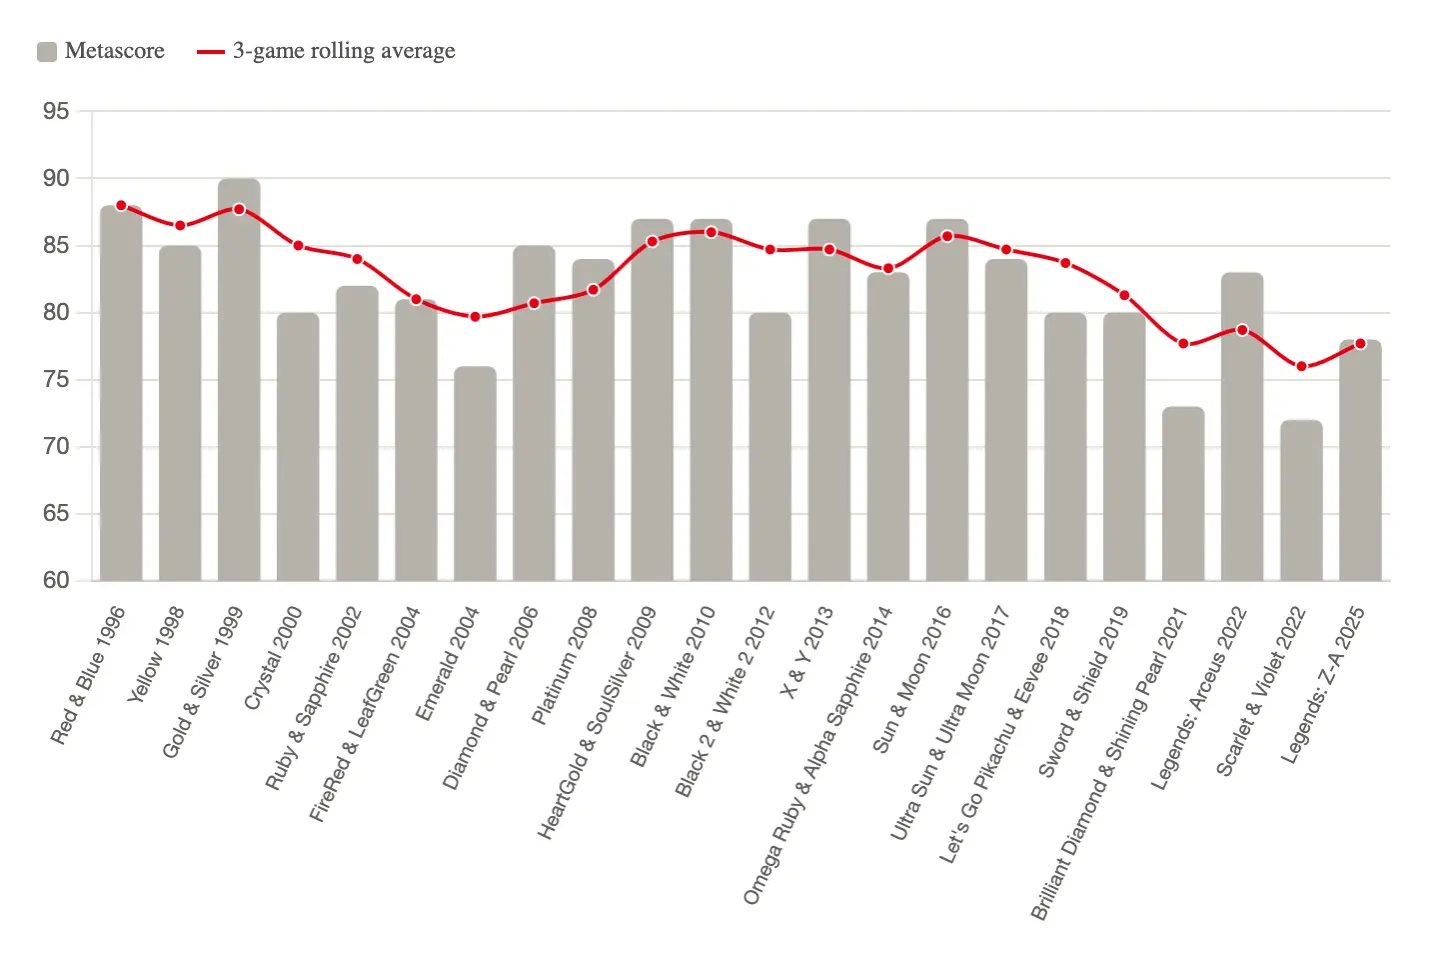
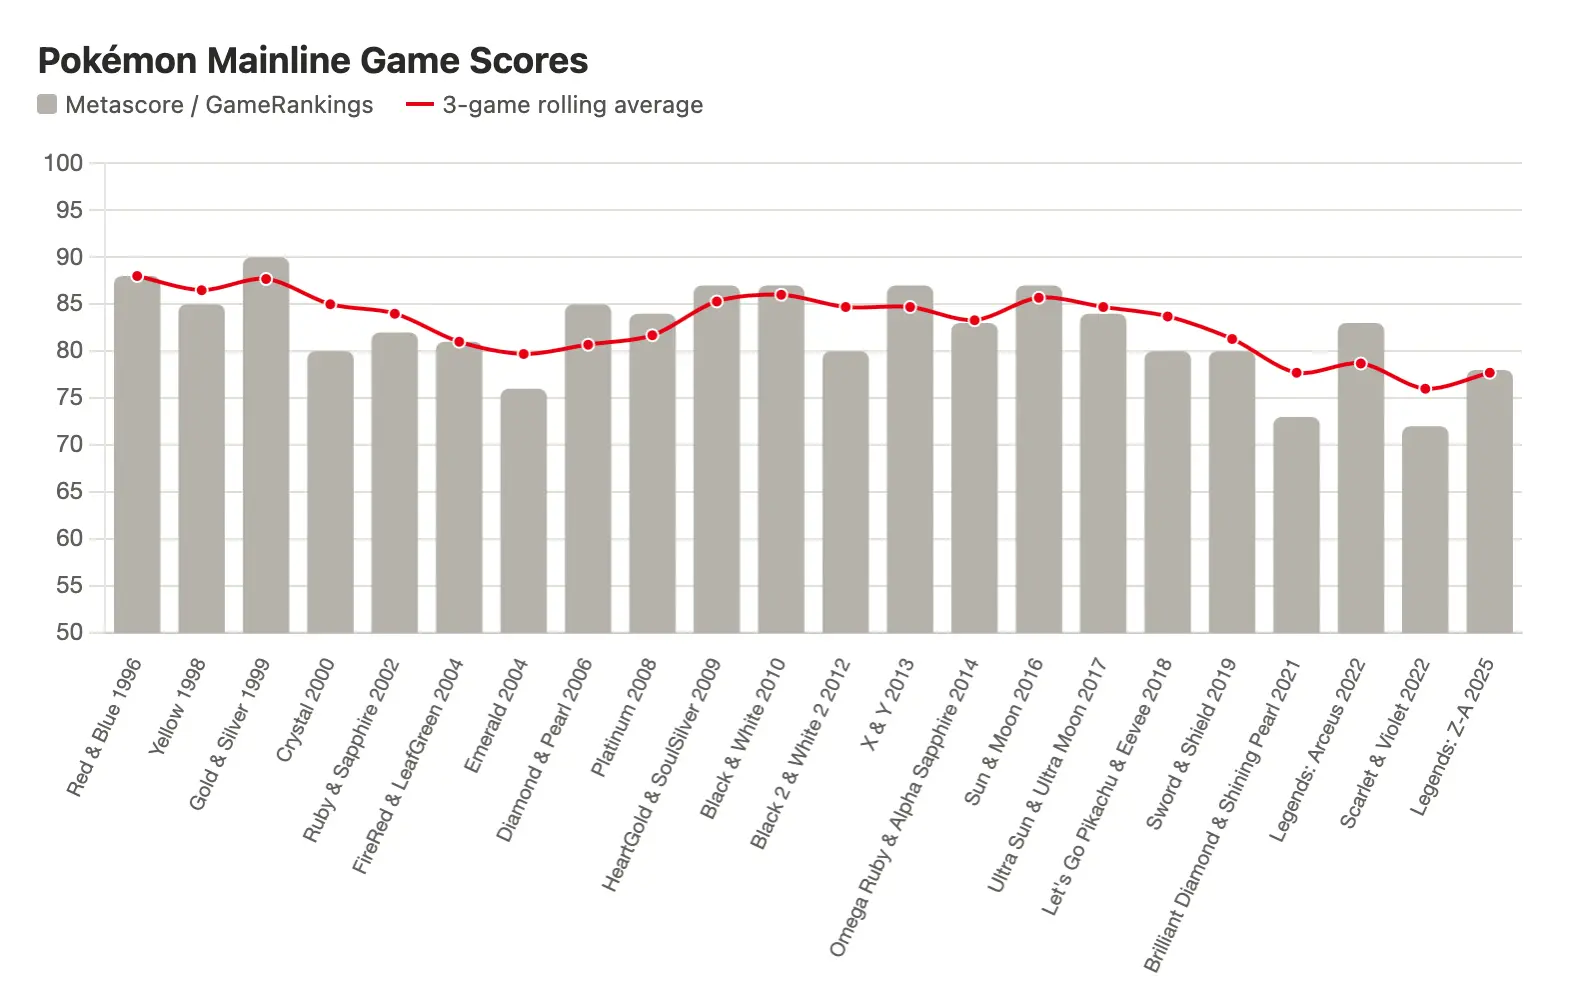
Quartz sync: Jul 23, 2026, 7:57 AM

Changed region(s): [[0.0307, 0.1514, 0.9819, 0.9687], [0.0, 0.0303, 0.4603, 0.1211], [0.4603, 0.3935, 0.4909, 0.4541]]

diff --git a/content/investing/Nintendo.md b/content/investing/Nintendo.md
@@ -302,9 +302,9 @@ By being able to satisfy both audiences - adults and children - success in one g
 
 Many of Nintendo's core IP (Mario, The Legend of Zelda, Donkey Kong, Starfox, etc.) were created by one person, Shigeru Miyamoto. Normally, this would create significant key-man risk as Miyamoto is now in his 70s. However, Nintendo has taken careful steps to practice deliberate succession planning. The best example of this is the continued excellence in metascores that The Legend of Zelda has received, even after directorial control was passed on to Eiji Aonuma years ago[^25].
 
-**Legend of Zelda Games, Metascores:**[^26]
+**Legend of Zelda Game Scores**[^26]
 
-![[LegendofZeldaGames1986-2026Metascores.webp]]
+![[ZeldaGameScoresOverTime.webp]]
 
 #### IP Enforcement
 
@@ -430,9 +430,11 @@ The best comparison I can think of for Playstation is their title "God of War: R
 
 What matter here is that this is not Sony failing to execute. This is the state of normalcy in the gaming industry for all players - except Nintendo. The difference is almost half a decade of sales at full margins, versus running as fast as you can to stay in one place. It is a good of a picture as we can get of the pricing power Nintendo holds and the power of its IP.
 
+---
+
 ## 5. Risks & Opportunities
 
-### Risk 
+### Risks
 
 The risk section ahead will not attempt to predict or discuss short term risks to Nintendo's business. This includes broader industry pressures, such as the current spike in digital memory that is driving price increases on many electronic products. [^45]
 Instead, it will take a long term perspective. We will view the business as owners would and we'll try to identify what could go wrong. Specifically, what series of events, if they played out, would turn today's investment into a permanent loss within 10 years?
@@ -505,26 +507,92 @@ The point here is that I see similar qualities in Nintendo. Nintendo did not inv
 
 ##### Self-Inflicted Dilution
 
-While opportunities are discussed below, it should be evident at this point in the research that the growth story for Nintendo stems from monetizing the IP. Yet, part of the moat discussed above was that Nintendo has full ownership of that IP, and thus the ability to ration exposure of it to its audience. Expanding IP touch points with more films, more parks, and more licensing deals appears to be in tension with the disciplined drip-feeder strategy that has work so well for Nintendo so far. I have to wonder how many Mario movies can Nintendo make before their audience fatigues? Below we will look into four difference cases where IP expansion either broke the business, or compounded, and see what takeaways we can ascertain in understanding Nintendo's risk.
+While opportunities are discussed below, it should be evident at this point in the research that the growth story for Nintendo stems from monetizing the IP. Yet, part of the moat discussed above was that Nintendo has full ownership of that IP, and thus the ability to ration exposure of it to its audience. Expanding IP touch points with more films, more parks, and more licensing deals appears to be in tension with the disciplined steady curation strategy that has worked so well for Nintendo. I have to wonder how many Mario movies can Nintendo make before their audience fatigues? Below, we will look into three different cases where IP expansion either broke the business, or compounded, and see what takeaways we can ascertain in understanding Nintendo's risk as it expands into the business of broader IP monetization.
 
-**Pokémon**
-Pokémon is the most immediate comparison we can make because it is 32% owned by Nintendo and is one of the most aggressively exploited IPs in the world: games, trading cards, a decades-running anime, films, Pokémon GO, and an ungodly amount of merchandise. As a private company, financial information is sparse; however, estimates put lifetime revenue between $115B and $150B USD.[^52] [^53] The most important thing to understand is that of this total, an estimated one-fifth comes from the games themselves. The rest is merchandise, cards, etc.[^54] We can speculate that the economics work like this:
+###### Disney Princesses
+
+In 2000, Disney consolidated its princess characters into a single retail line, the Disney Princess franchise, and turned it into one of the largest licensing businesses in entertainment.[^57] The business model is simple: a film seeds the IP with a story and a cast, then the merchandising engine takes over, selling toys, theme park attractions, apparel, and endless side content. But, that monetization engine depends entirely on the **quality** of the canonical film to generate the emotional attachment that makes a child want the toy in the first place.
+
+This shows up quite clearly in the data. Charting Rotten Tomatoes critic scores for every Disney Princess film going back to Snow White, a clear pattern emerges. 
+
+**Disney Princesses Rotten Tomatoes Critic Score:**[^58]
+
+![[DisneyPrincessRatings.webp]]
+
+Films in black are canonical, Walt Disney Animation Studios originals, spanning eight decades. Almost all of them sit above an 80% critic score, with Moana 2 as the lone exception. Films in grey are non-canonical, direct-to-video, B-tier studio productions. Their scores are far lower.
+
+What matters isn't that the grey films were bad. It's *why* they were allowed to be bad. None of them received a theatrical release or involved the original directors or creative leads. They were, in every meaningful sense, walled off from the core franchise, produced by a separate B-team to feed a content calendar without ever touching the asset that actually generates consumer affection.
+
+That separation is the point. Disney could let a cheap, disposable Cinderella sequel absorb the pressure to constantly ship new content, while the canonical films stayed rare and protected. The merchandise machine got its volume. The brand equity stayed intact.
+
+**Lesson learned:** the business of merchandise cannot be allowed to dictate the cadence or quality of the creative team producing the canonical asset. The moment monetization pressure bleeds into the thing that creates the affection in the first place, the whole flywheel breaks. Building a buffer between the two, and obsessively protecting the quality of the canonical stories (until recently, it seems) allows the merchandising business to run far and wide.
+
+###### Angry Birds
+
+Angry Birds is the failure case. At it's peak in 2012, the franchise generated roughly $200M a year with 260 million monthly active players. Rovio, the developer, quickly expanded into lunchboxes, clothing, board games, Band-Aids, and more. By 2014, revenue had fallen 73% to about $10M. This collapse was directly attributable to declining brand-licensing revenue. The business was sold to Sega in 2023, for roughly $775M, a fraction of its peak worth. 
+
+**Lesson learned:** Rovio didn't do anything Disney hasn't done with its princess franchise. It expanded into exactly the same categories. The difference was the depth of the IP-universe. Angry birds was a simple, puzzle-like mobile game with no real characters or story. The relationship with the player was light fun, rather than deep connection. In reference to the Disney example above, we can expand the understanding of the IP business further than "quality drives IP". It's that IP generates *affection reservoirs* that the expansion into merchandise draws on. Depth in the reservoir comes from great stories, and years of quality interaction with the characters. Without that, the reservoir draws down quicker than it can be replaced. 
+
+###### Pokémon
+
+Pokémon, the next case study, is the most valuable comparison we can make because it is 32% owned by Nintendo and is one of the most aggressively exploited IPs in the world: games, trading cards, a decades-running anime, films, Pokémon GO, and an ungodly amount of merchandise. As a private company, financial information is sparse; however, estimates put lifetime revenue between $115B and $150B USD.[^52] [^53] The most important thing to understand is that of this total, an estimated one-fifth comes from the games themselves. The rest is merchandise, cards, etc.[^54] We can speculate that the economics work like this:
 
 1. The mainline games, while being the smallest revenue slice, function to generate new creatures, characters, and lore. The core game loop of capturing, training, and battling creatures has remained the same for thirty years and effectively bootstraps new players into the attachment they form with their favourite Pokémon, while compounding the same attachment older players already have. It is fuel for the business.
 2. The anime, movies, and spin-off games like Pokémon GO function as top-of-funnel reach extension, pulling in children and more casual mobile players.
 3. The Trading Card Game (TCG) and licensed merchandise is the evergreen profit centre. The TCG literally prints high-margin, pieces of paper that the global fan base has turned into a genuine asset class. While the licensed merchandise, like stuffed animals, provide other high margin products. This business line digitalized in late 2024 with the cross-platform app "Pokémon Trading Card Game Pocket." Officially released financial information from the Japanese government shows 2025 year-over-year revenue growth for The Pokemon Company of nearly 40%.[^55] Given little other activity from Pokémon this year (no new games or major releases), most of this growth must be coming from the digital trading card game.
 
-This framework illustrates how Pokémon's business model functions without exhausting its audience. The games remain largely the same, and the release cadence of true mainline titles stays staggered every few years. The monetization of the IP then happens through ancillary categories, rather than by accelerating the core games.
+This framework illustrates the *affection reservoir* thesis again. Games may be in fact the best way to build audience affection as in essence, the player actually lives the story themself rather than just watches it. Decades of Pokemon games with the same core loop, but different characters and creatures has created an incredibly deep reservoir of affection and content to monetize through the Trading Card Game and other surfaces. 
 
-**Disney Princesses**
+What is interesting, though, is that despite growing revenues, the chart below clearly shows a degradation of quality in the games since 2016. With revenues trending up, but core franchise quality trending down, it paints a picture of the franchise being monetized harder than ever with the creative core getting weaker. 
 
-**Pokemon Game Scores (Metacritic/GameRankings):**[^56]
+**Pokemon Game Scores:**[^56]
 
 ![[PokemonGameScoresOverTime.webp]]
 
-#### 3. Valuation Risk
+In my eyes, this is further confirmed simply by viewing the Pokemon that are most heavily pushed through the merchandise. Across a range of new and old Pokemon cards, and using price as a proxy for broad secondary market demand, it is clear that the most popular Pokemon are the old ones. I can tell, because I recognize all of them from when I was a young Pokemon trainer. Scrolling through the list, it seems *all* the most popular pokemon are older creatures, and this indicates that while the affection reservoir discussed above is incredibly deep, it is being drawn down faster than it is being refilled. If this was not the case, I would expect to see at least one newer pokemon on this popularity chart.
 
-#### 4. Foreign Currency Risk
+**Most Expensive Pokemon Cards:**[^59]
+
+![[MostExpensivePokemonCards.webp]]
+
+The danger for Nintendo, and the investor is that the financial results of Pokemon today, looks like success, while the moat - the affection reservoir - is depleted. The Pokemon Company's stewardship has done a brilliant job of monetizing its reservoir and maintaining the commercial momentum, but it has not protected the core game's quality the way that the reservoir thesis requires. Speculatively, each new poorly reviewed Pokemon game is another indicator that future results may not be as strong as history alone predicts.
+
+**Lesson learned:** The reason this matters is that, of course, Pokemon exists within the Nintendo corporate family. But, it is unknown how much control Nintendo has over the quality and cadence of Pokemon games. For an investor who is betting on Pokemon as the playbook for Mario and Zelda, the discipline for Nintendo to focus on quality in the games - the driver of the affection reservoir - is imperative.
+
+###### Nintendo
+
+The reassuring point to make on Nintendo is that the wholly owned franchises show no quality erosion despite the recent expansions into film, parks, and merchandise. Metacritic scores have generally trended down over the last 20 years[^60], so against that trend it seems that Mario games have remained highly enjoyable and Legend of Zelda games may have actually become better. The takeaway here is that Nintendo itself seems to have the discipline and understanding of what is required to maintain an exploitable IP franchise, while its partner Pokemon may not. This matters for Nintendo. Pokemon and Nintendo are strongly associated in consumer minds. Pokemon has only ever been playable on Nintendo devices and Nintendo's 32% stake in the company is a material part of its valuation. But it does not kill the thesis either. Purely speculating, if the Pokemon franchise ever appeared to actually be impaired in its ability to sell merchandise, it may be possible for Nintendo to have preferential access to acquire a controlling stake in the business and/or provide more resources to Game Freak in developing the series.
+The secondary takeaway from this section of the analysis is that we gain an important insight into predicting the performance of the business going forward. With the reservoir mental model in mind, it becomes clear that the sales figures for a game are not the most relevant metric for future success. It is possible to break sales records while *drawing down* the affection reservoir, without refilling it. The important thing to track is the quality of the games released by Nintendo. As long as the quality remains high, the reservoir gets refilled, and the broad monetization of the IP remains intact.
+
+**Super Mario Mainline Game Scores (Metacritic):**
+
+![[MarioGameScoresOverTime.webp]]
+
+**Legend Of Zelda Mainline Game Scores (Metacritic):**
+
+![[ZeldaGameScoresOverTime.webp]]
+
+### Opportunities
+
+---
+
+## Management
+
+---
+
+## Valuation
+
+### 1. The Comparison
+
+Nintendo bought Activision-Blizzard for $70B, a worse business. Nintendo's enterprise value is ~$50B.
+
+### 2. Logic
+
+Reverse DCF, segment growth
+
+### 3. Discounted Cash Flow
+
+Full DCF.
 
 ---
 
@@ -584,3 +652,7 @@ This framework illustrates how Pokémon's business model functions without exhau
 [^54]: https://vgsales.fandom.com/wiki/Pok%C3%A9mon
 [^55]: https://kanpo-kanpo.blog.jp/archives/44639158.html
 [^56]: https://en.wikipedia.org/wiki/Pok%C3%A9mon_(video_game_series)
+[^57]: https://en.wikipedia.org/wiki/List_of_highest-grossing_media_franchises
+[^58]: https://editorial.rottentomatoes.com/guide/disney-princess-movies/
+[^59]: https://www.tcgcollector.com/cards/intl?releaseDateOrder=newToOld&displayAs=images&sortBy=marketPriceDesc
+[^60]: https://n4g.com/news/2003793/20-years-of-metacritic-scores-shows-a-steady-decline-in-90-and-above-titles
